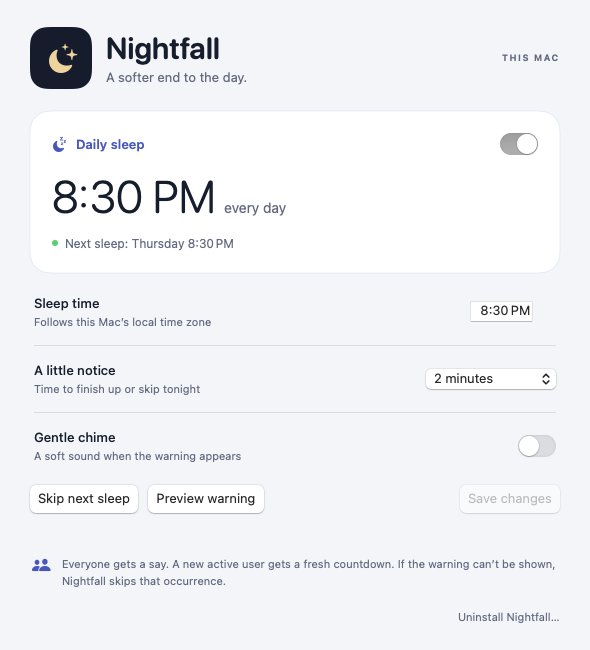
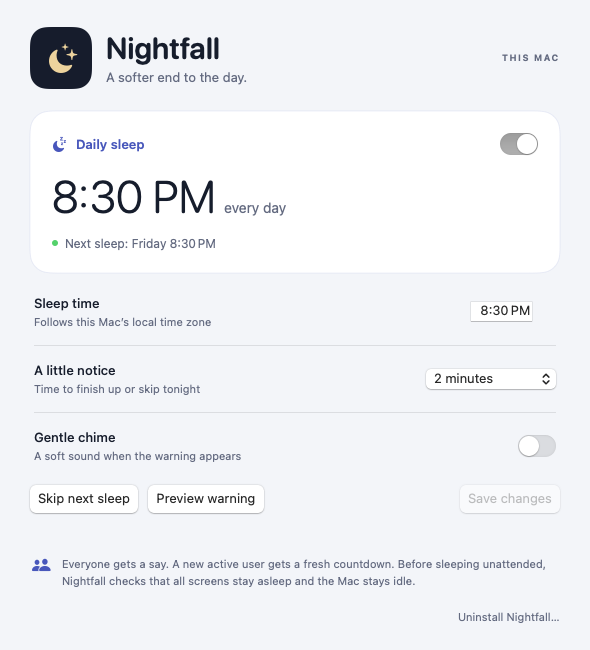
Refresh settings screenshot and clarify unattended sleep

Changed region(s): [[0.1831, 0.8615, 0.9458, 0.9231], [0.2136, 0.3692, 0.3966, 0.4]]

diff --git a/Sources/Nightfall/Views.swift b/Sources/Nightfall/Views.swift
@@ -102,7 +102,7 @@ struct NightfallView: View {
             Spacer(minLength: 0)
             HStack(alignment: .top, spacing: 9) {
                 Image(systemName: "person.2.fill").font(.system(size: 14)).foregroundStyle(accent)
-                Text("Everyone gets a say. A new active user gets a fresh countdown. If the warning can’t be shown, Nightfall skips that occurrence.")
+                Text("Everyone gets a say. A new active user gets a fresh countdown. Before sleeping unattended, Nightfall checks that all screens stay asleep and the Mac stays idle.")
                     .font(.system(size: 11)).foregroundStyle(secondaryInk).fixedSize(horizontal: false, vertical: true).lineSpacing(3)
             }
             if model.installed {

diff --git a/CHANGELOG.md b/CHANGELOG.md
@@ -1,5 +1,9 @@
 # Changes
 
+## 1.1.2 beta 3 — October 29, 2026
+
+- Update the settings footer and README screenshot to explain the display and activity checks used before unattended sleep.
+
 ## 1.1.2 beta 2 — October 29, 2026
 
 - Handle macOS's signed-out GUI-session response during installation and removal. Keep permission errors and failures inspecting the system service fatal, and still verify that existing jobs have stopped before replacing files.
